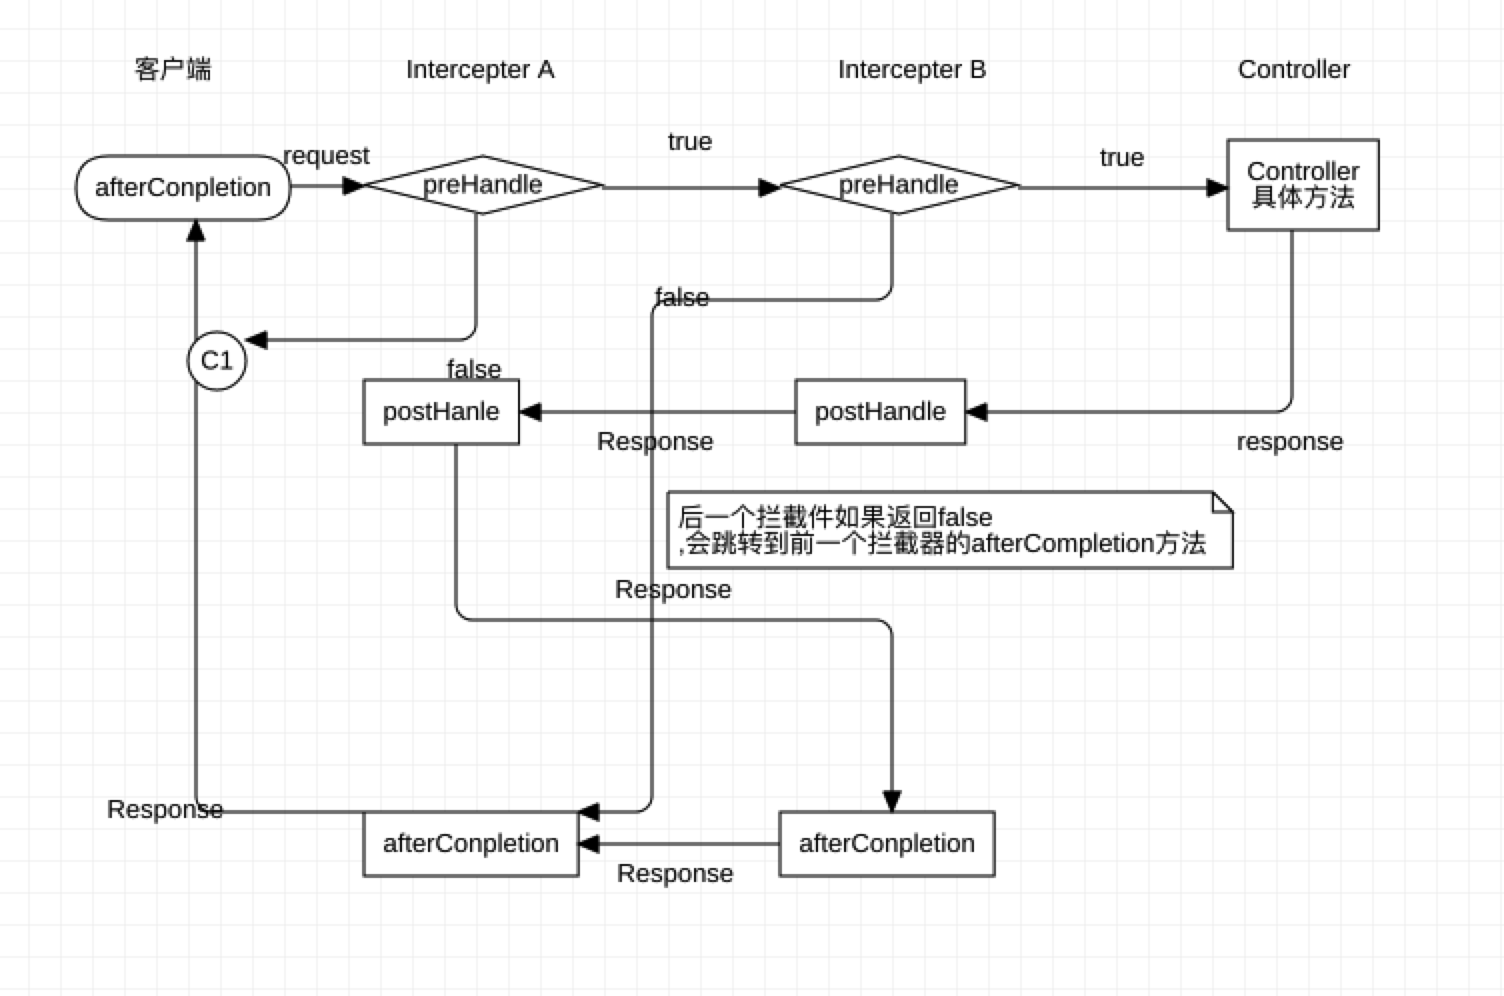
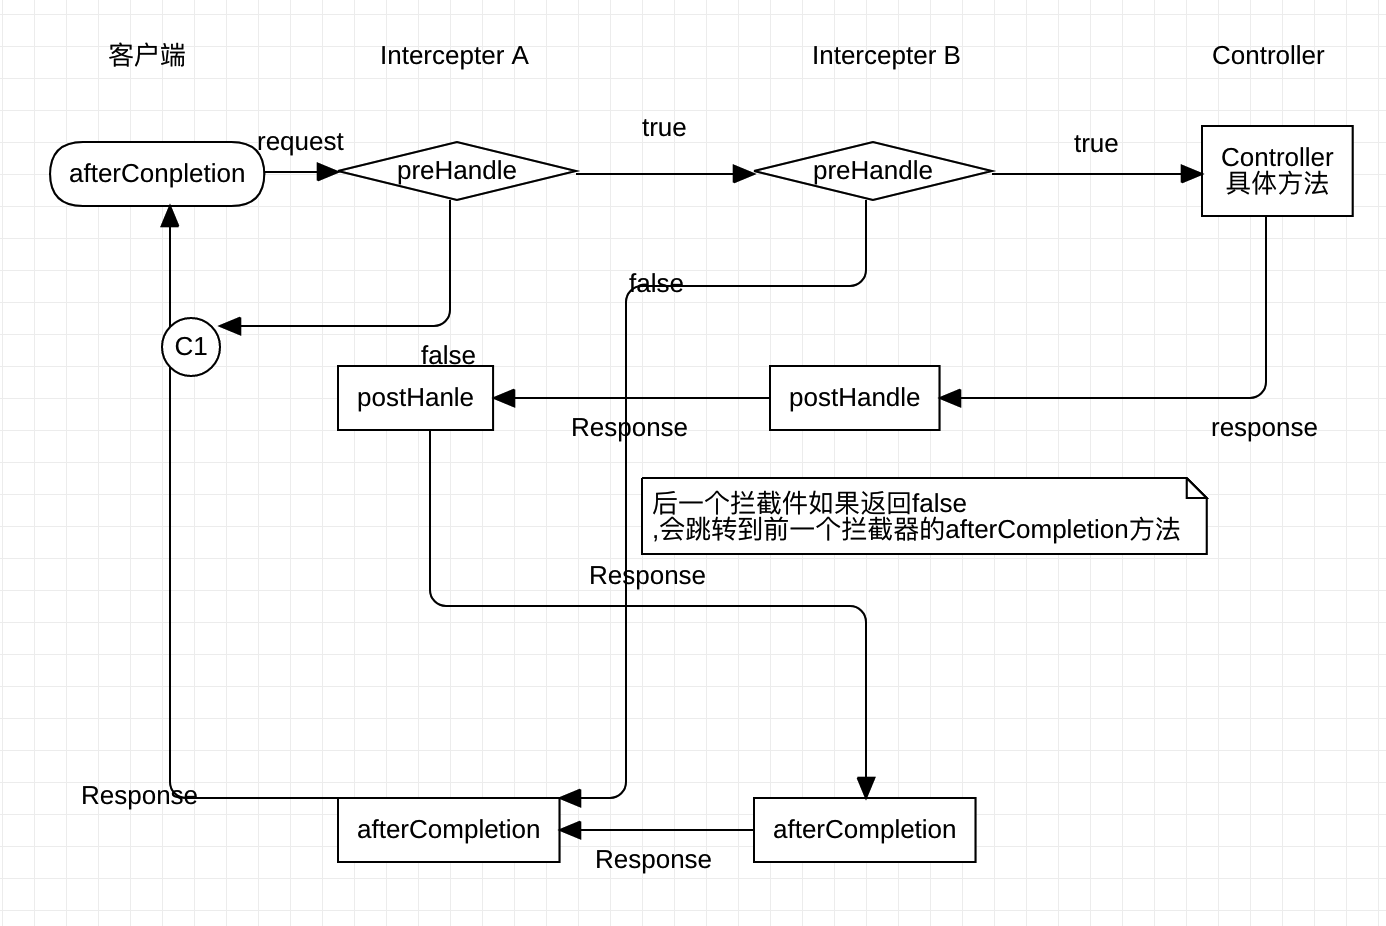
update intercept png

diff --git a/README.md b/README.md
@@ -307,7 +307,7 @@
     
     
    <div align="center">
-      <img  src="mkimages/spring-mvc-Intercept.png" height="330" width="400">
+      <img  src="mkimages/spring-mvc-Intercept.png" height="500" width="500">
     </div>
         
         
